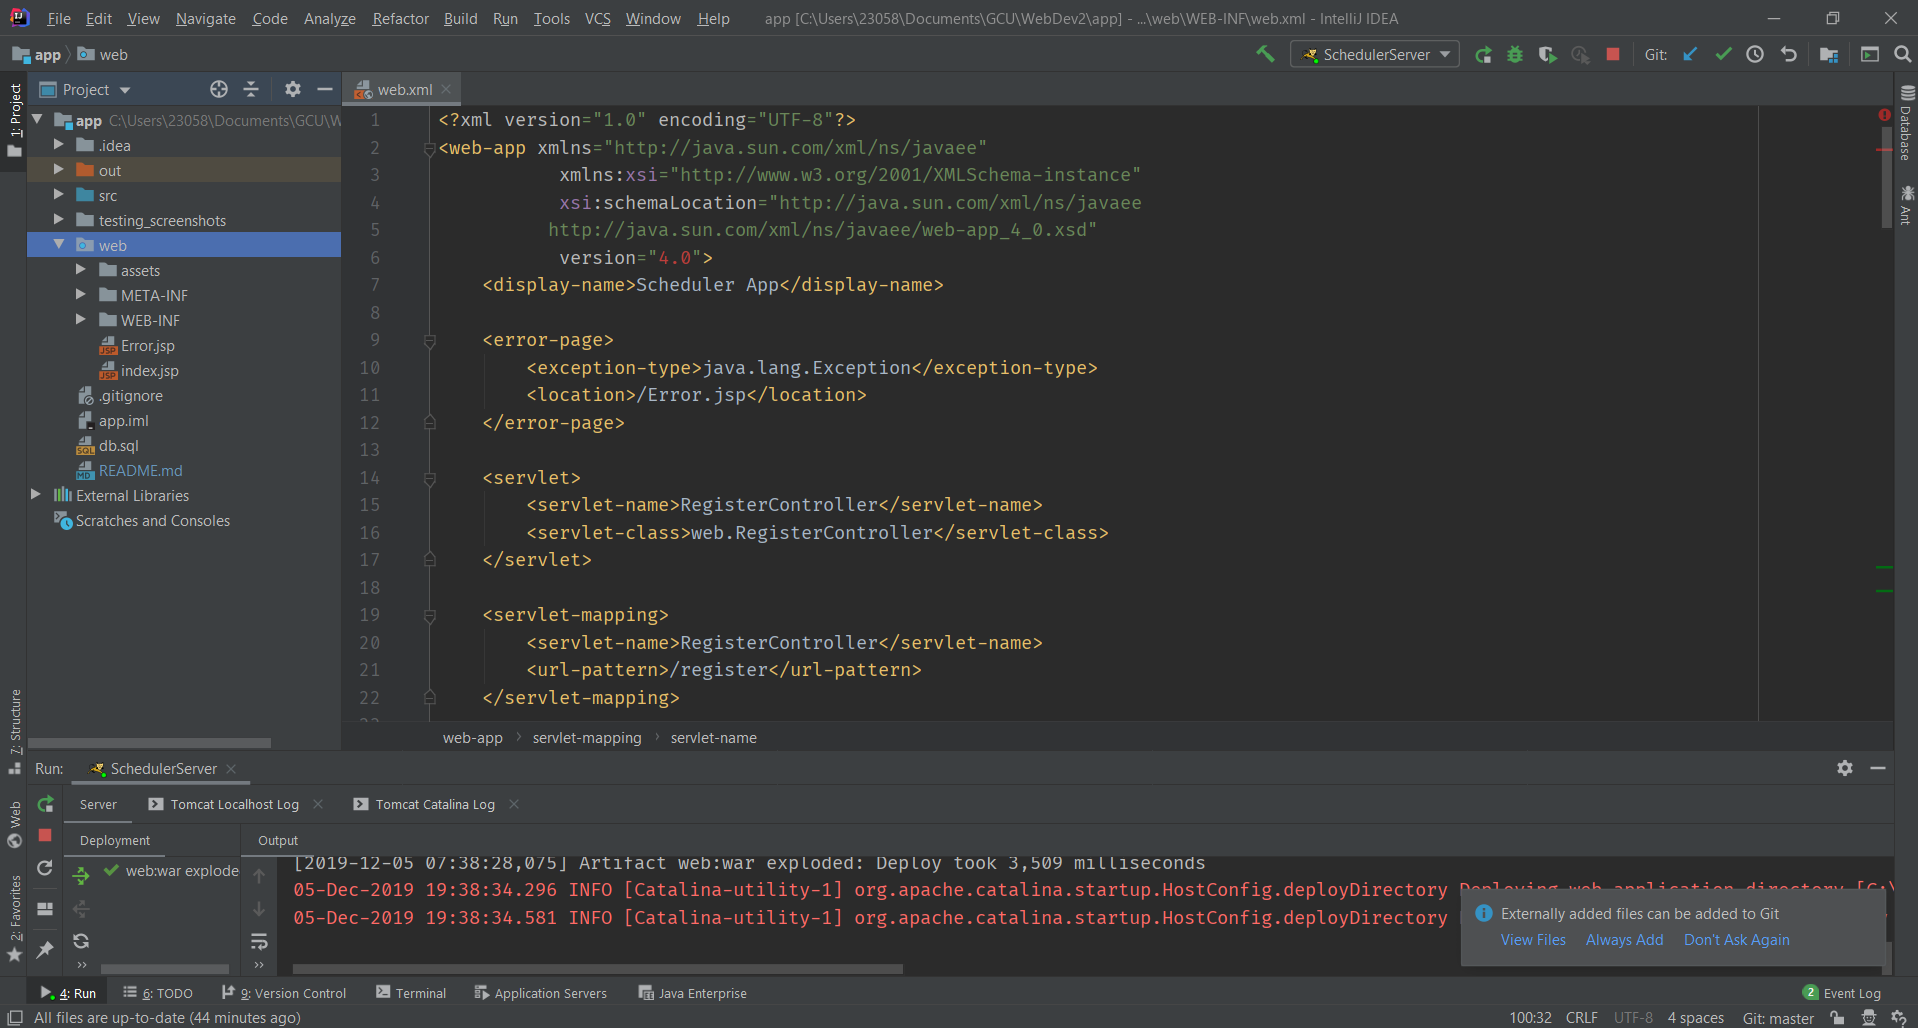
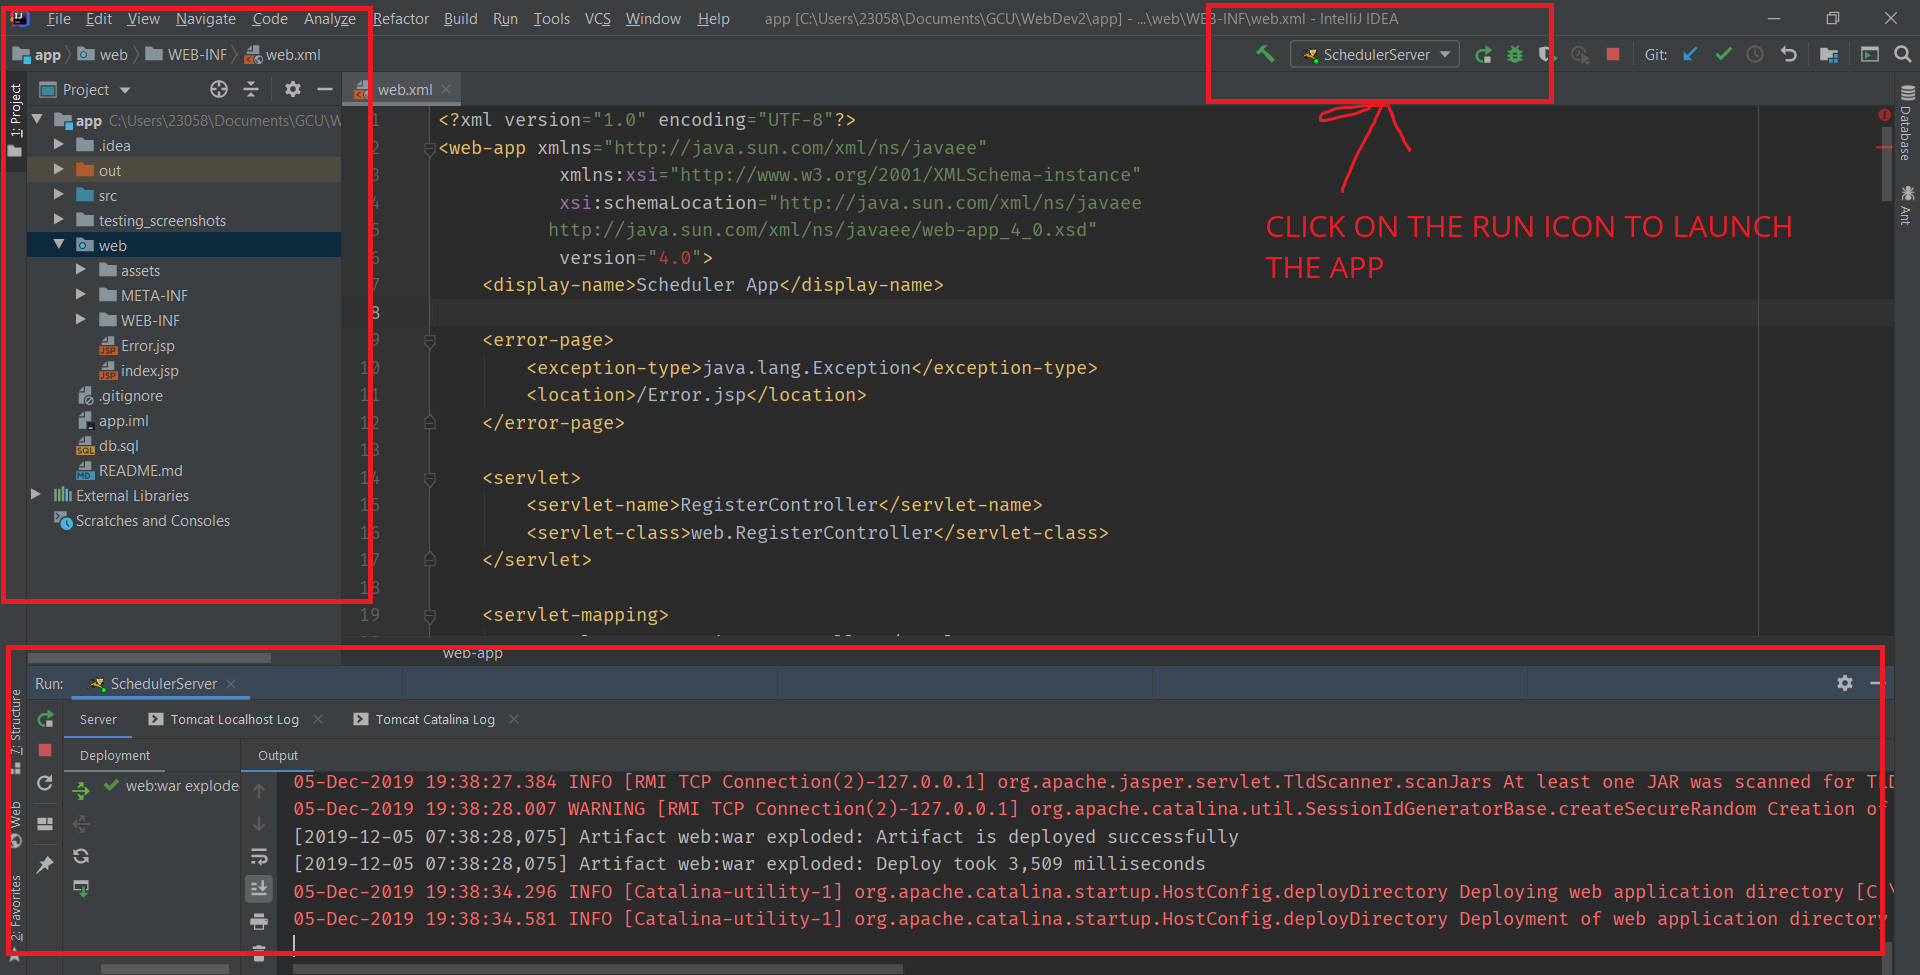
Documentation - Read me file

Changed region(s): [[0.0, 0.0, 1.0, 1.0], [0.3999, 0.0, 1.0, 0.2462], [0.646, 0.2154, 0.9228, 0.3077]]

diff --git a/README.md b/README.md
@@ -60,3 +60,14 @@ git clone https://github.com/FANHATCHA/schedulerapp.git
 
 ![alt text](testing_screenshots/result_after_importing.PNG)
  
+##### E - Finally click on the run icon to launch the app
+
+![alt text](testing_screenshots/browse_intelij.PNG)
+
+## CONTRIBUTIONS
+This app has been designed and build by:
+
++ [Kone Fanhatcha ](https://www.linkedin.com/in/konefanhatcha/)
++ Kevin Bofelo
++ Faith Mbithe
++ Andrew Minja
